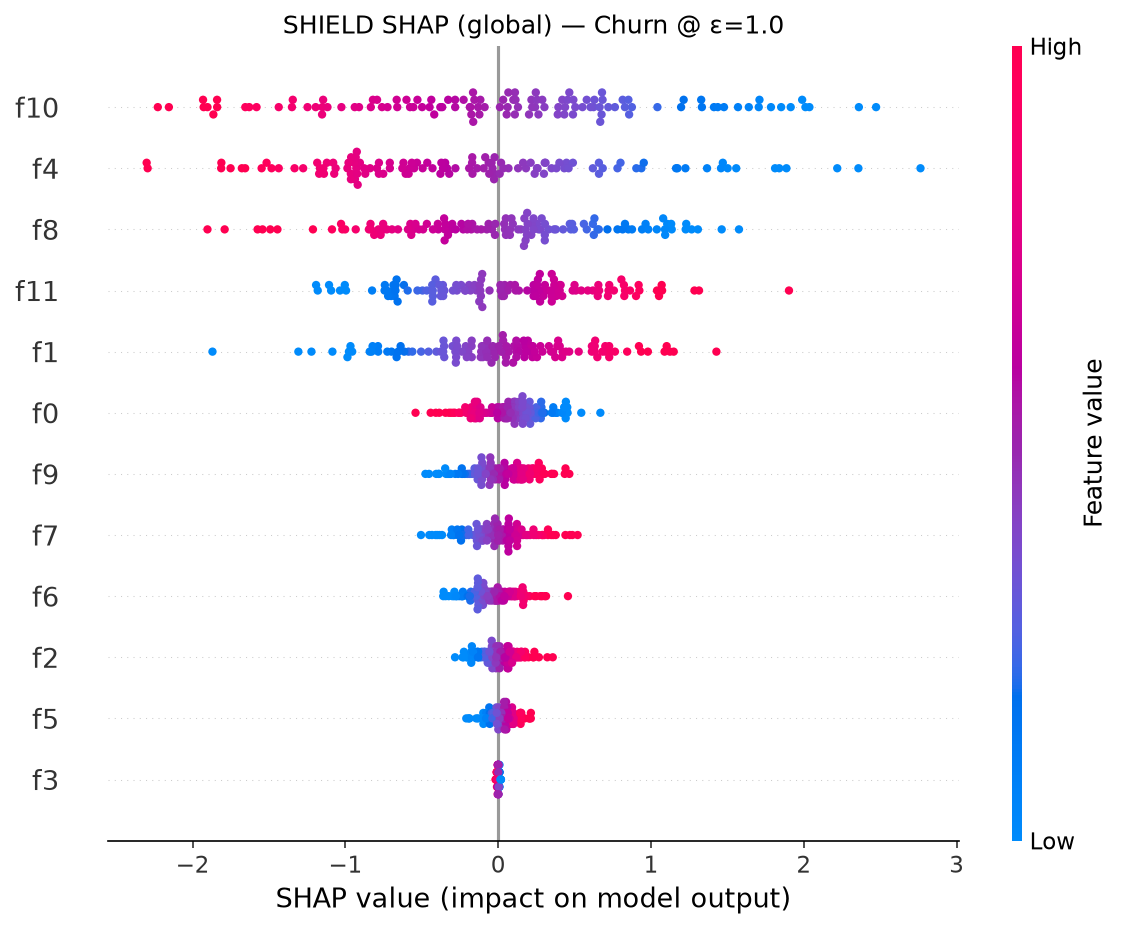
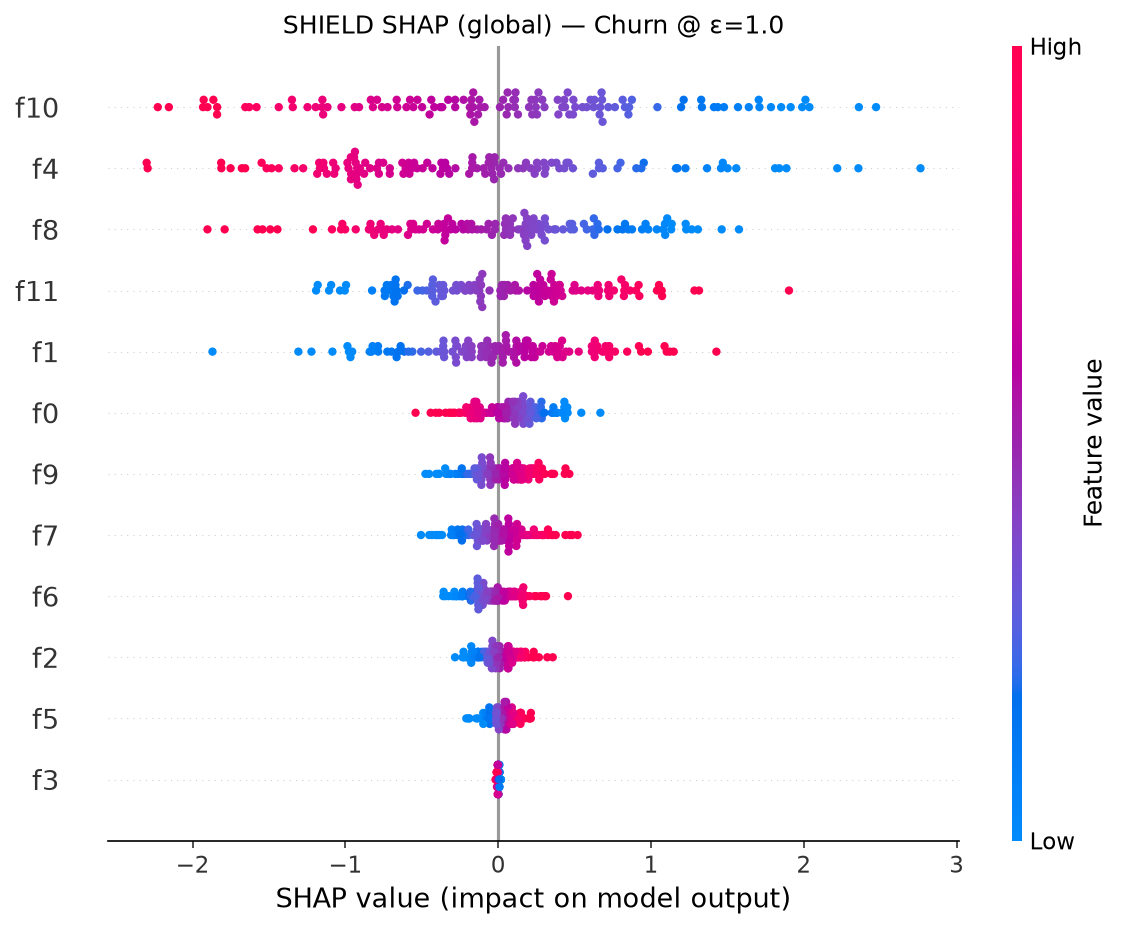
Remove internal V5 labels from judge-facing docs

diff --git a/README.md b/README.md
@@ -8,7 +8,7 @@
 
 | Layer | What SHIELD delivers |
 |---|---|
-| **Strategy** | 1-page concept paper + V5 target architecture (children, customer trust, DPO, third parties) |
+| **Strategy** | 1-page concept paper + proposed target architecture (children, customer trust, DPO, third parties) |
 | **Demo A** | Differential Privacy + SHAP for churn & fraud (ε≈1.0 operating point + customer reason drivers) |
 | **Demo B** | Hardened RAG support assistant: BD PII redaction → behaviour+pattern defence → anomaly guard → retrieve / human review |
 
@@ -35,7 +35,7 @@ SHIELD-Framework/
 ├── requirements.txt
 ├── LICENSE
 ├── docs/
-│   ├── SHIELD_V5_Architecture.md
+│   ├── SHIELD_Architecture.md
 │   └── TeamNullX_ConceptPaper.pdf      # competition 1-pager (rename team if needed)
 ├── demos/
 │   ├── demo_a_dp_shap.py               # DP privacy–utility + SHAP
@@ -142,9 +142,9 @@ Also referenced in architecture: **MITRE ATLAS** adversarial ML testing alongsid
 
 ---
 
-## SHIELD V5 — Proposed target architecture (summary)
+## SHIELD — Proposed target architecture (summary)
 
-Full detail: [`docs/SHIELD_V5_Architecture.md`](docs/SHIELD_V5_Architecture.md)
+Full detail: [`docs/SHIELD_Architecture.md`](docs/SHIELD_Architecture.md)
 
 **One-liner:** Zero Trust + isolated AI zone + ABAC/JIT + encrypted DB + Hardened RAG + DP/SHAP + **privacy without friction** (dashboard + USSD/IVR, fast fraud unblock, customer KPIs) + children’s PDPA controls + DPO/Council + in-country default — **no blockchain / no public GenAI with personal data**.
 

diff --git a/docs/SHIELD_Architecture.md b/docs/SHIELD_Architecture.md
@@ -1,8 +1,8 @@
-# SHIELD V5 — Proposed Target Architecture
+# SHIELD — Proposed Target Architecture
 
 > New Telecom Ltd | Robi Data Privacy Avengers | Privacy without friction
 
-This is the master control list (V5). Demos in `/demos` prove the AI technical core; this document covers the full PDPA operating model.
+This is the master control list. Demos in `/demos` prove the AI technical core; this document covers the full PDPA operating model.
 
 ## Architecture
 Zero Trust (ZTNA, microsegmentation, NGFW) · isolated HA AI zone (segmented from billing/subscriber) · mTLS in AI pipeline · AI-zone DR/BCP with fail-closed for critical AI · AI kill switch · VPN as MFA- and posture-protected backup only
